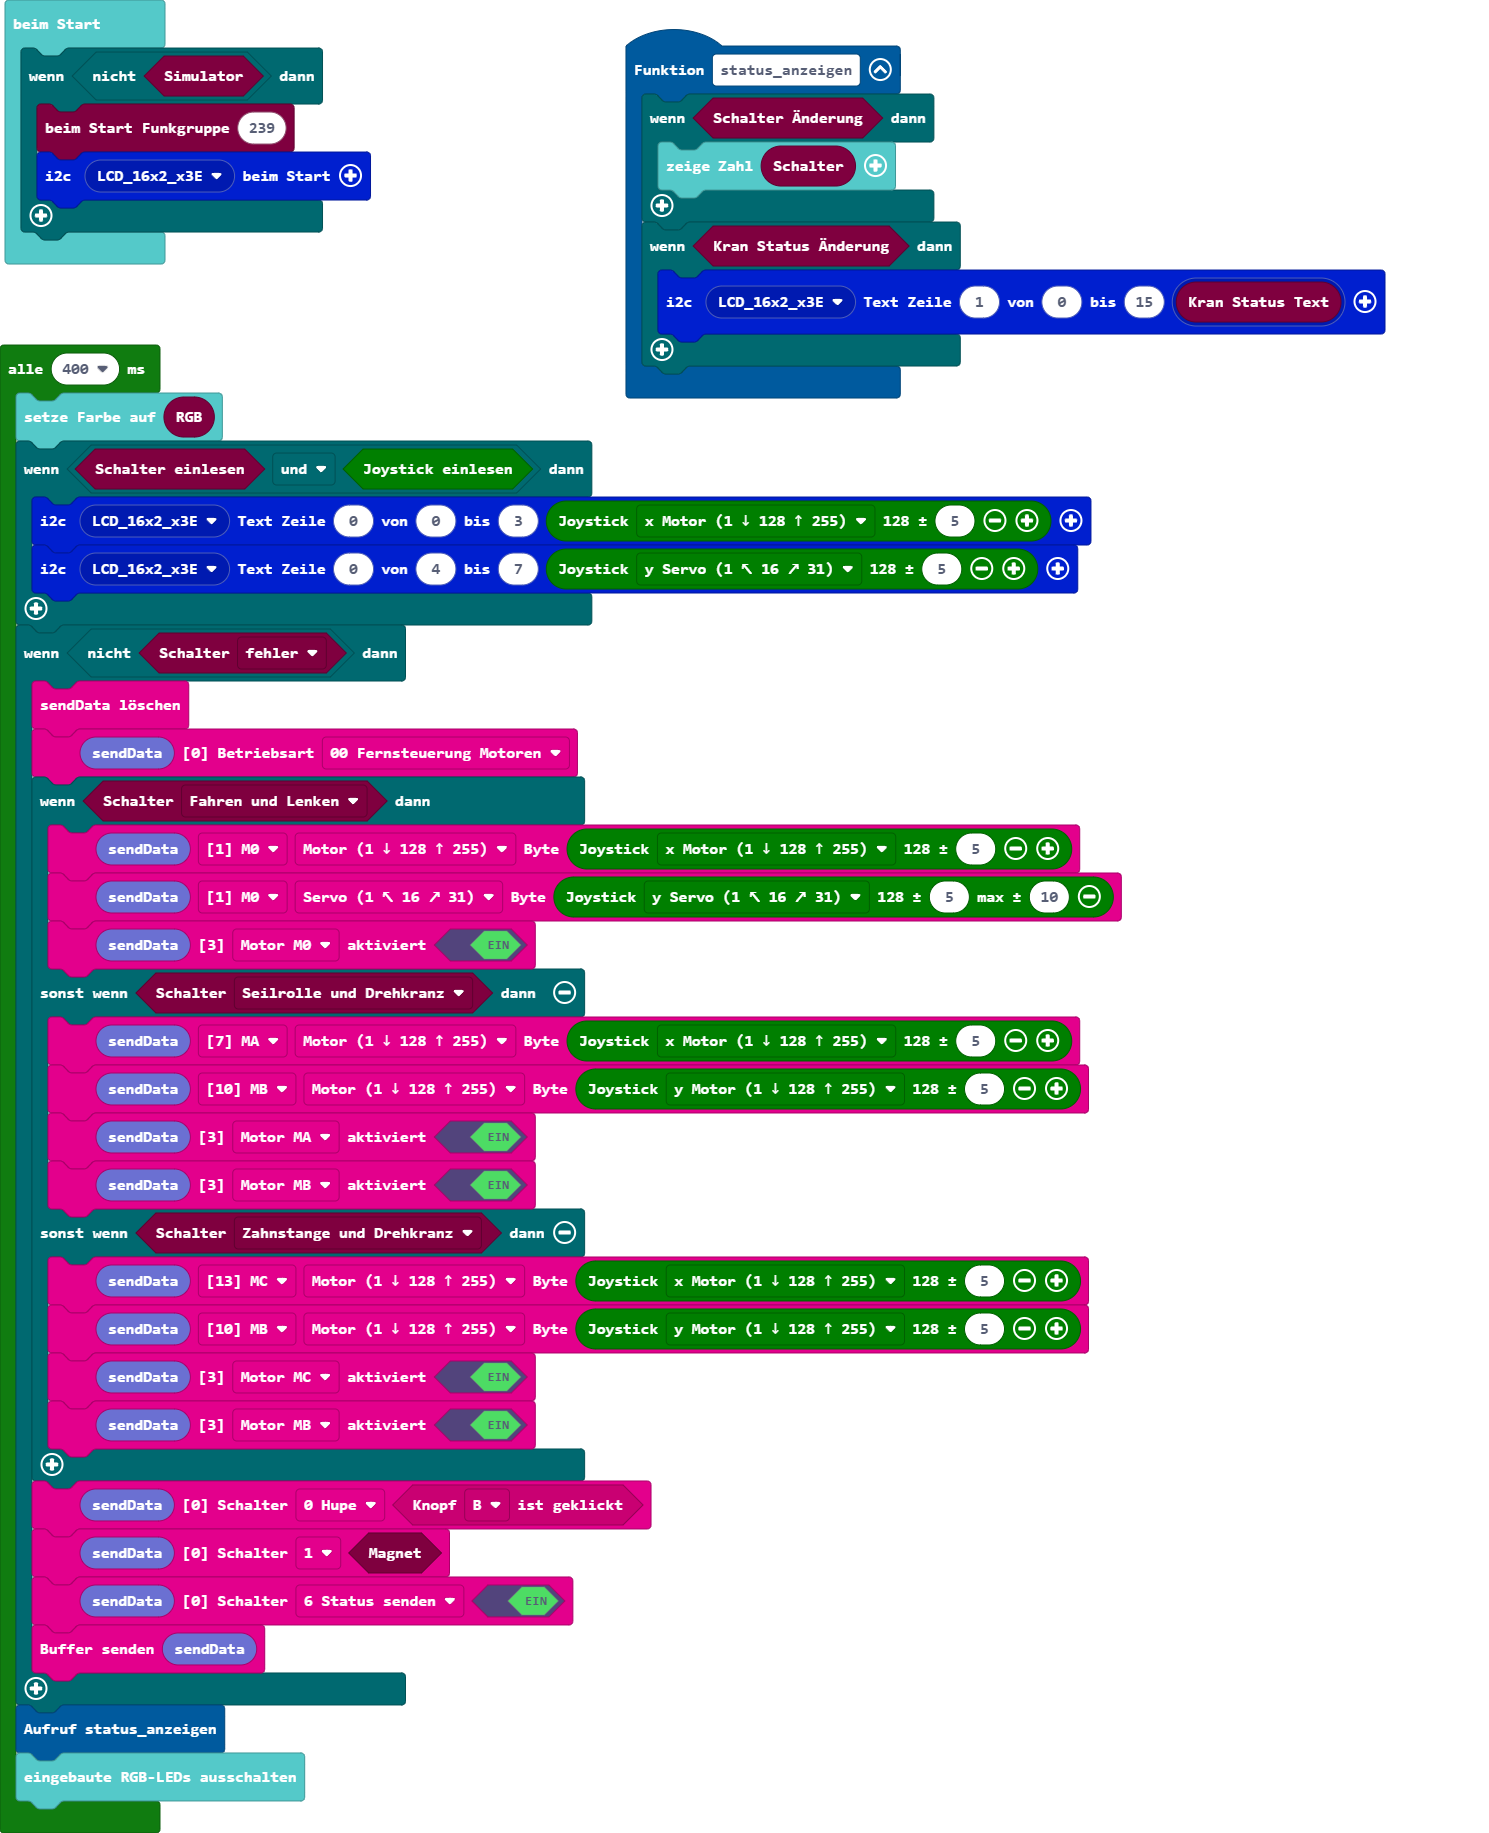
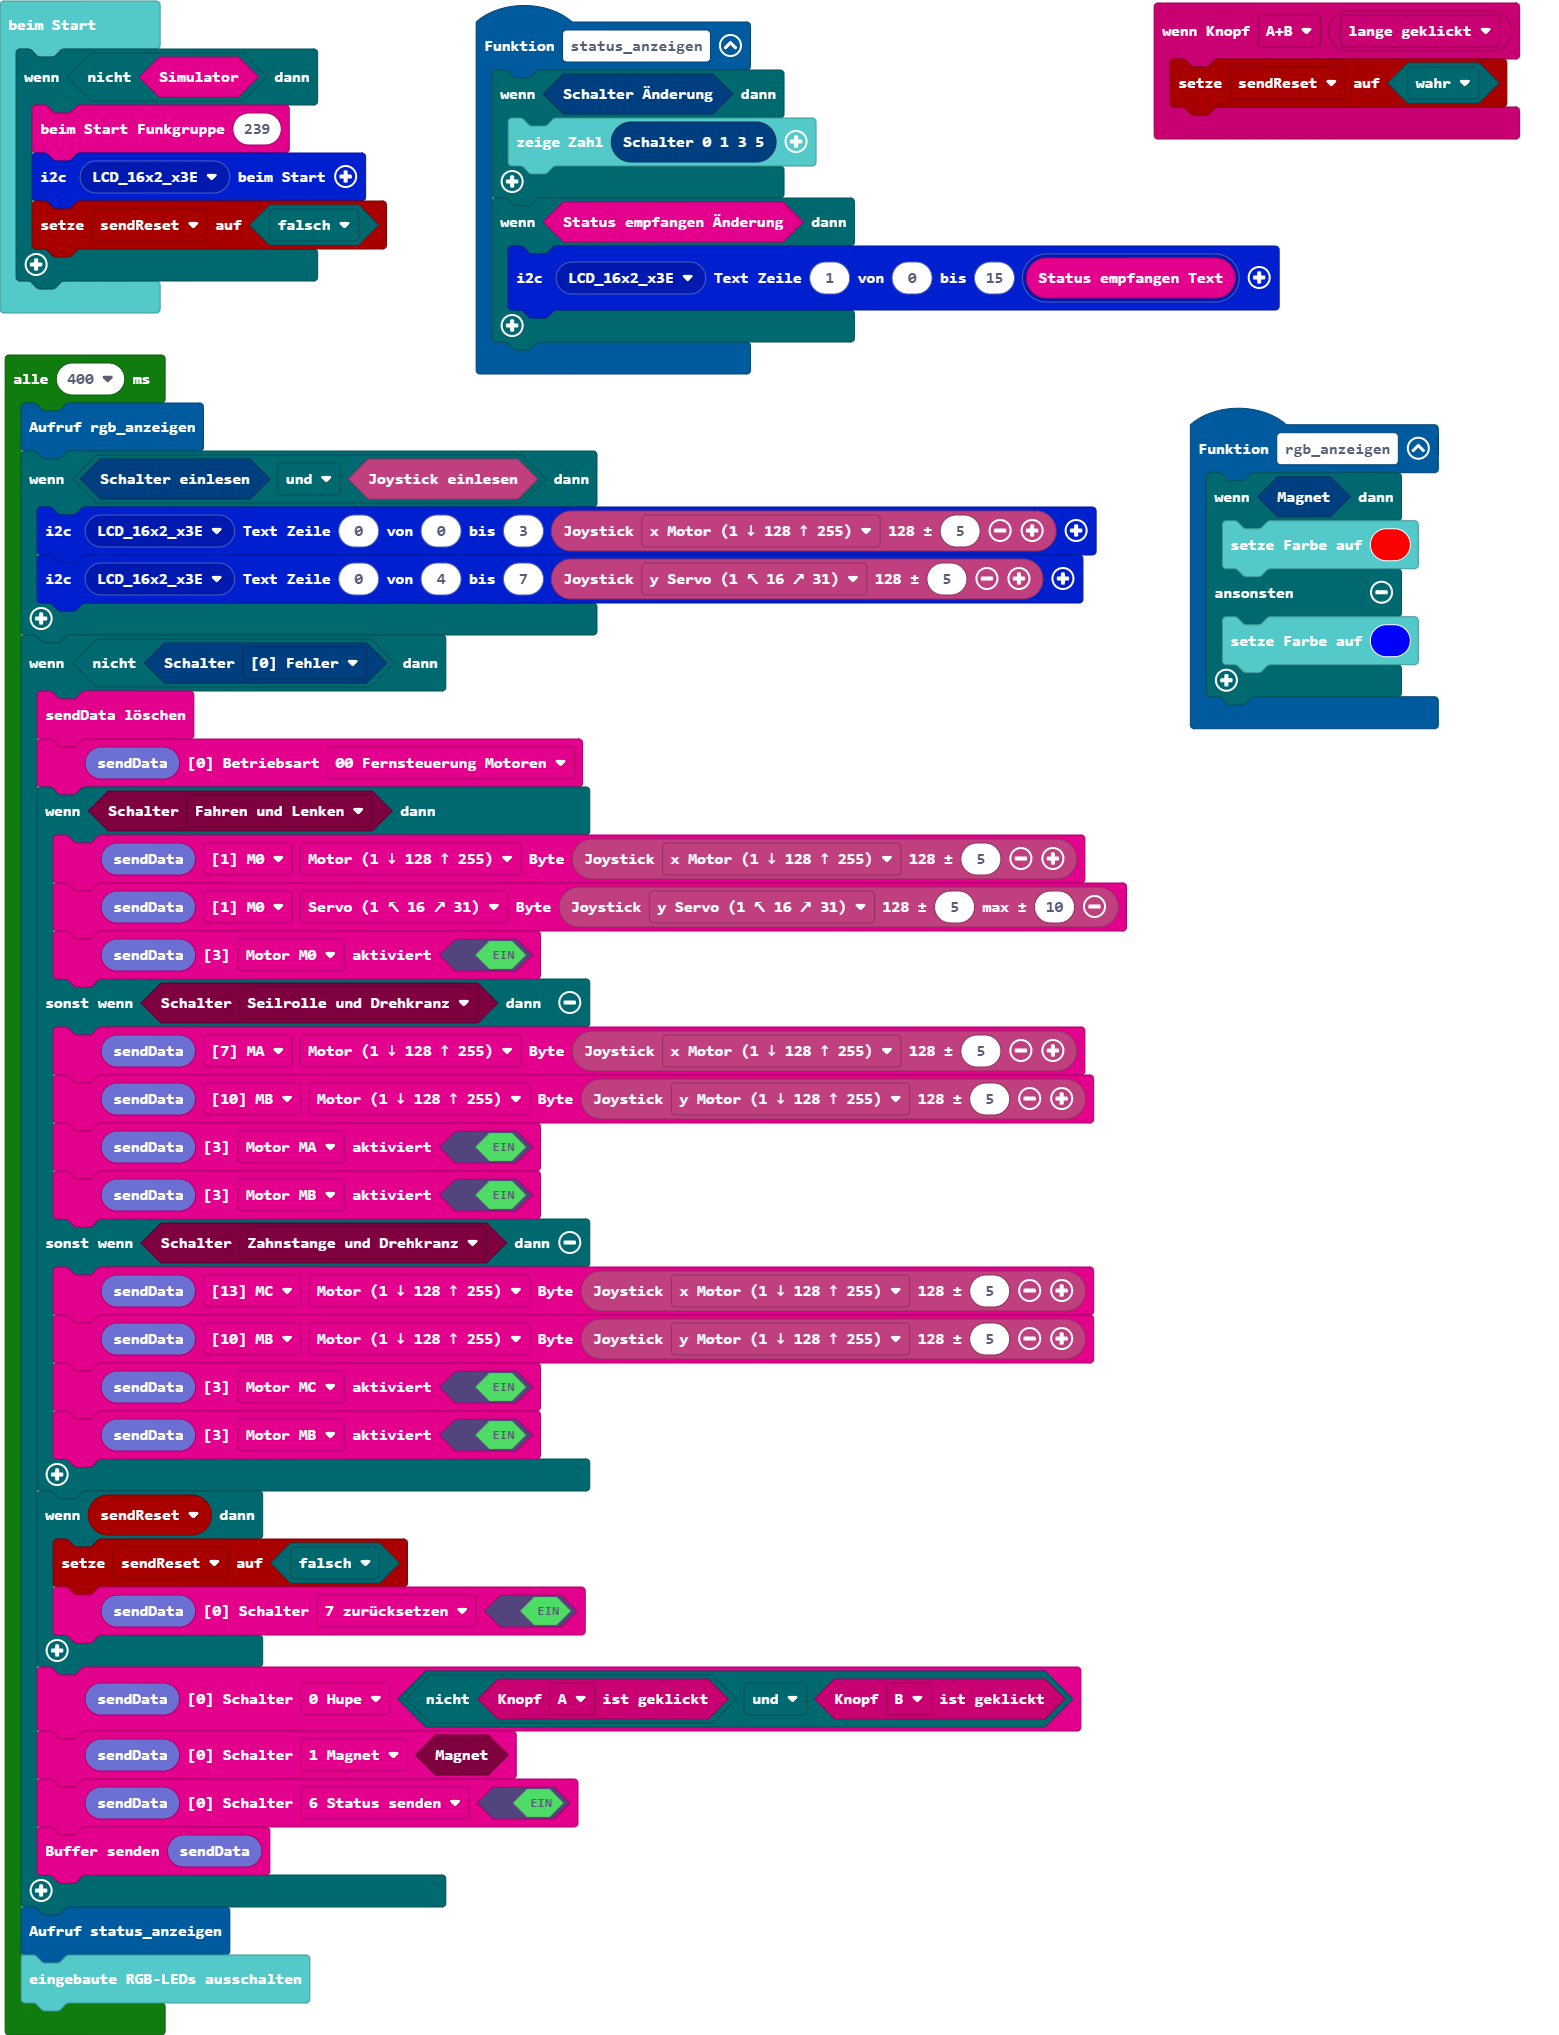
Aktualisiere pxt.json, main.blocks, main.ts, kran.ts

diff --git a/main.ts b/main.ts
@@ -1,22 +1,34 @@
+input.onButtonEvent(Button.AB, ButtonEvent.LongClick, function () {
+    sendReset = true
+})
 function status_anzeigen () {
-    if (kran.chSwitch()) {
-        basic.showNumber(kran.getSwitch())
+    if (radio.chSwitch()) {
+        basic.showNumber(radio.getSwitch())
     }
-    if (kran.receivedStringChanged()) {
-        lcd16x2rgb.writeText(lcd16x2rgb.lcd16x2_eADDR(lcd16x2rgb.eADDR_LCD.LCD_16x2_x3E), 1, 0, 15, lcd16x2rgb.lcd16x2_text(kran.receivedString()))
+    if (radio.receivedStringChanged()) {
+        lcd16x2rgb.writeText(lcd16x2rgb.lcd16x2_eADDR(lcd16x2rgb.eADDR_LCD.LCD_16x2_x3E), 1, 0, 15, lcd16x2rgb.lcd16x2_text(radio.receivedStringText()))
     }
 }
-if (!(kran.simulator())) {
-    kran.beimStart(239)
+function rgb_anzeigen () {
+    if (radio.getMagnet()) {
+        basic.setLedColor(0xff0000)
+    } else {
+        basic.setLedColor(0x0000ff)
+    }
+}
+let sendReset = false
+if (!(radio.simulator())) {
+    radio.beimStart(239)
     lcd16x2rgb.initLCD(lcd16x2rgb.lcd16x2_eADDR(lcd16x2rgb.eADDR_LCD.LCD_16x2_x3E))
+    sendReset = false
 }
 loops.everyInterval(400, function () {
-    basic.setLedColor(kran.getRGB())
-    if (kran.readSwitch() && radio.joystickQwiic()) {
+    rgb_anzeigen()
+    if (radio.readSwitch() && radio.joystickQwiic()) {
         lcd16x2rgb.writeText(lcd16x2rgb.lcd16x2_eADDR(lcd16x2rgb.eADDR_LCD.LCD_16x2_x3E), 0, 0, 3, radio.joystickValue(radio.eJoystickValue.motor, 5))
         lcd16x2rgb.writeText(lcd16x2rgb.lcd16x2_eADDR(lcd16x2rgb.eADDR_LCD.LCD_16x2_x3E), 0, 4, 7, radio.joystickValue(radio.eJoystickValue.servo16, 5))
     }
-    if (!(kran.isSwitch(kran.eStatus.fehler))) {
+    if (!(radio.isSwitch(radio.eStatus.fehler))) {
         radio.fill_sendBuffer19()
         radio.setBetriebsart(radio.radio_sendBuffer19(), radio.e0Betriebsart.p0)
         if (kran.isSwitch(kran.eStatus.fahren)) {
@@ -34,7 +46,11 @@ loops.everyInterval(400, function () {
             radio.setaktiviert(radio.radio_sendBuffer19(), radio.e3aktiviert.mc, true)
             radio.setaktiviert(radio.radio_sendBuffer19(), radio.e3aktiviert.mb, true)
         }
-        radio.setSchalter(radio.radio_sendBuffer19(), radio.e0Schalter.b0, input.buttonIsPressed(Button.B))
+        if (sendReset) {
+            sendReset = false
+            radio.setSchalter(radio.radio_sendBuffer19(), radio.e0Schalter.b7, true)
+        }
+        radio.setSchalter(radio.radio_sendBuffer19(), radio.e0Schalter.b0, !(input.buttonIsPressed(Button.A)) && input.buttonIsPressed(Button.B))
         radio.setSchalter(radio.radio_sendBuffer19(), radio.e0Schalter.b1, kran.getMagnet())
         radio.setSchalter(radio.radio_sendBuffer19(), radio.e0Schalter.b6, true)
         radio.sendData(radio.radio_sendBuffer19())

diff --git a/kran.ts b/kran.ts
@@ -1,8 +1,8 @@
 
-//% color=#7F003F icon="\uf0d1" block="Kran" weight=06
+//% color=#7F003F icon="\uf0d1" block="Kran Sender" weight=06
 namespace kran { // kran.ts
 
-    const n_Simulator: boolean = ("€".charCodeAt(0) == 8364) // true, wenn der Code im Simulator läuft
+   // const n_Simulator: boolean = ("€".charCodeAt(0) == 8364) // true, wenn der Code im Simulator läuft
 
 
 
